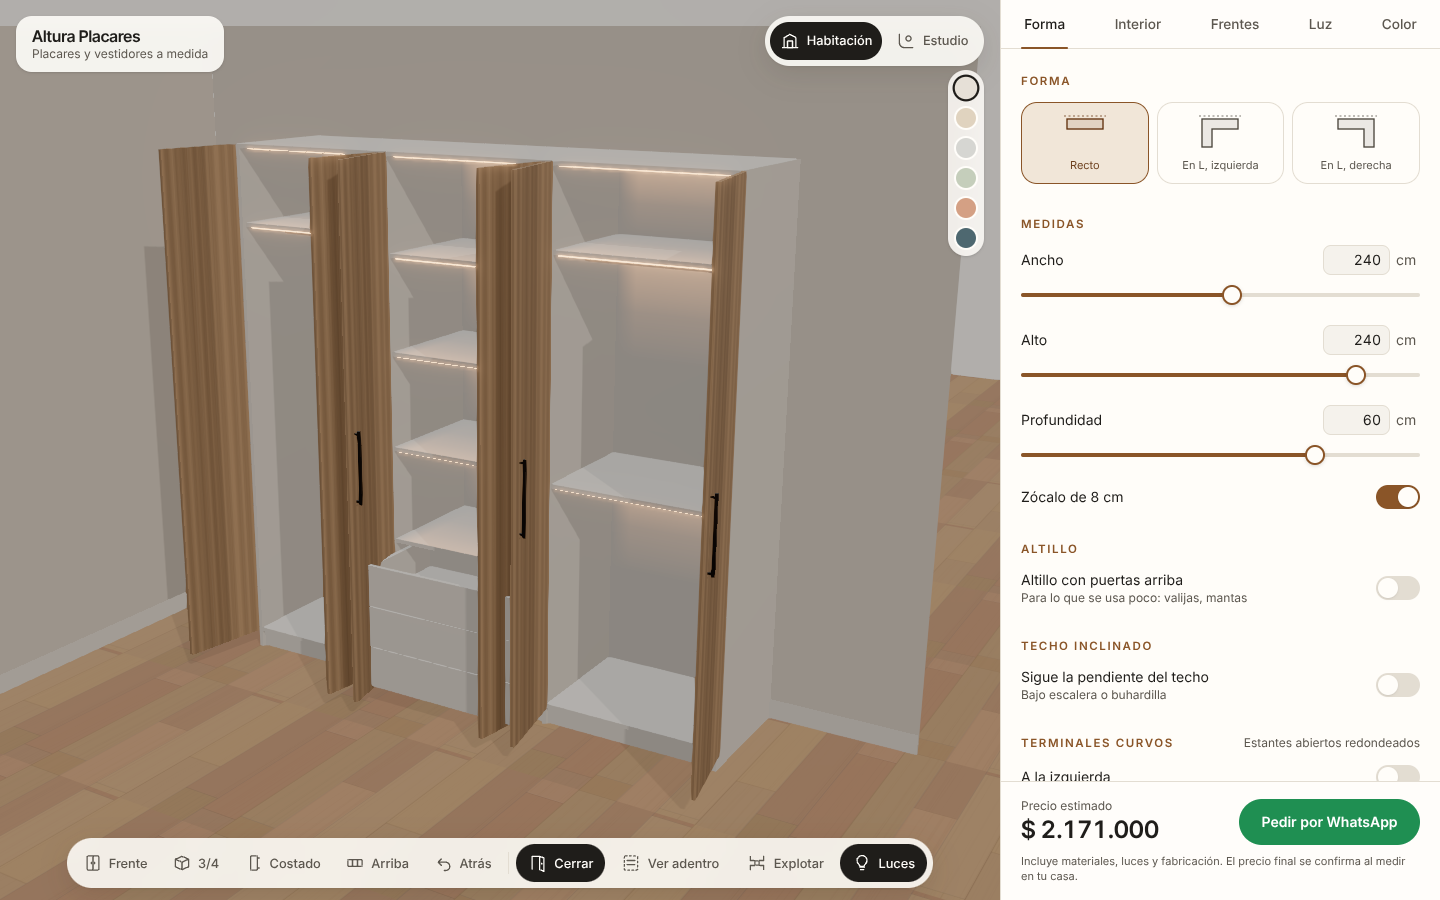
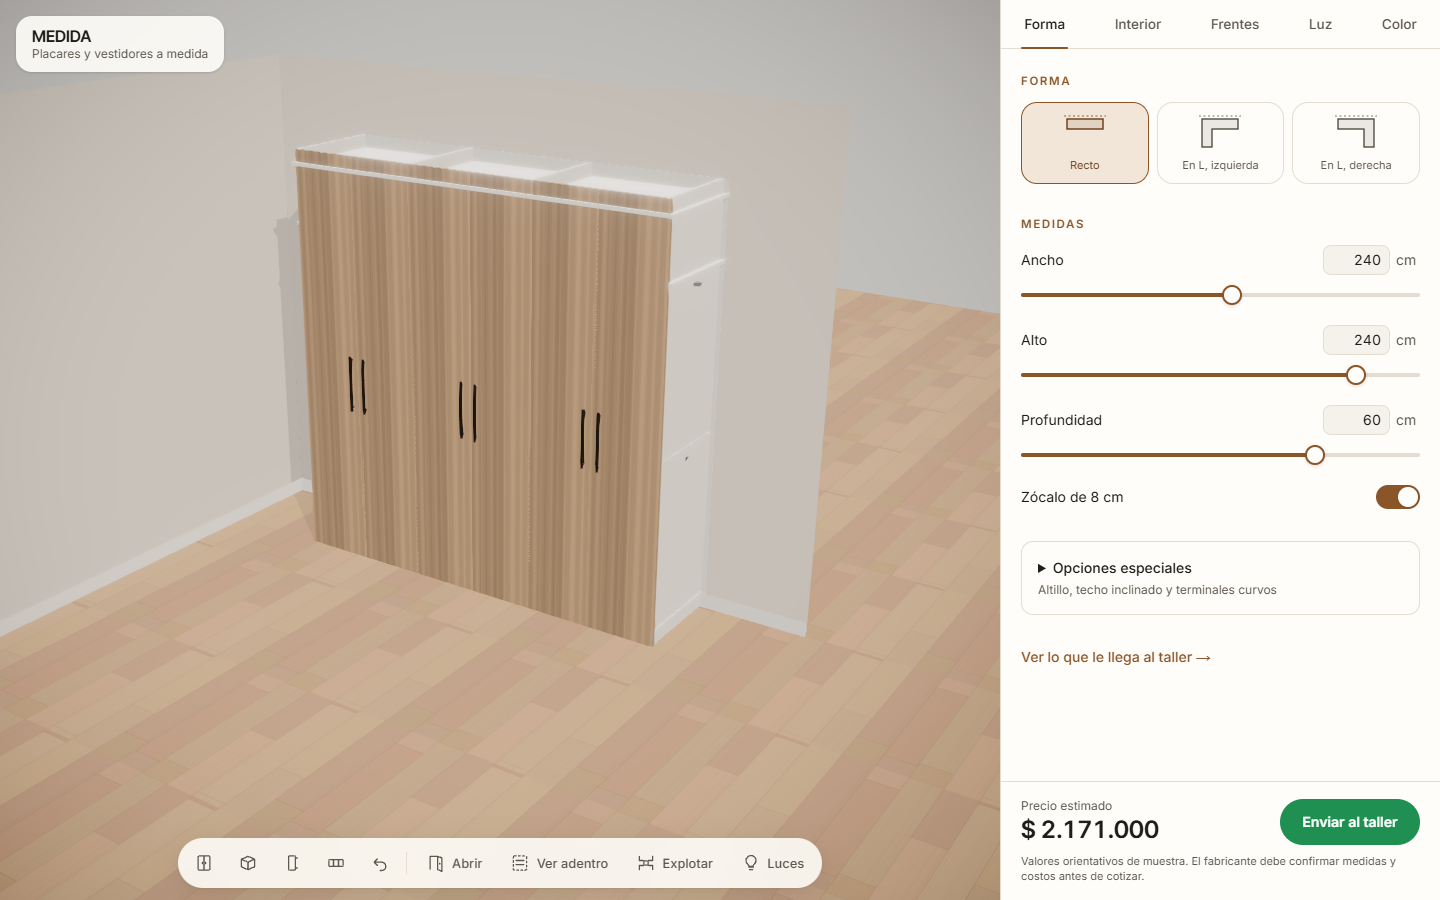
Validar MEDIDA y presentar configurador sin marca de demo

diff --git a/src/app/page.tsx b/src/app/page.tsx
@@ -16,7 +16,7 @@ const steps = [
   },
   {
     title: "Ve el precio al instante",
-    body: "El precio sale de tus placas, tus herrajes y tu margen. Nada de cotizar a ojo ni de esperar dos días.",
+    body: "El precio se calcula con los costos de placas, herrajes, mano de obra y margen configurados para tu taller.",
   },
   {
     title: "Te llega el pedido",
@@ -36,7 +36,7 @@ const workshop = [
     title: "Dibujo de cada pieza",
     body: "Agrupadas como se fabrican (10 × estante con luz LED) y dibujadas con medidas, cantos, canales para el perfil LED, cazoletas y agujeros de tirador.",
   },
-  { title: "PDF por WhatsApp", body: "El cliente lo manda desde el celular y te llega como documento, listo para imprimir. También en Excel para la seccionadora." },
+  { title: "PDF y planilla", body: "El pedido se puede descargar en PDF y compartir desde un celular compatible. El despiece también se exporta en CSV para revisar en una planilla." },
   { title: "Plano de corte", body: "Cómo acomodar las piezas en cada placa, respetando la veta, y cuántas placas comprar." },
   { title: "Herrajes y luces", body: "Bisagras según el alto de cada puerta, correderas, barrales, tiras LED, fuentes y sensores, contados uno por uno." },
   { title: "Costo y margen", body: "Cuánto te cuesta ese placard y cuánto te queda, antes de confirmar nada." },
@@ -58,7 +58,7 @@ export default function Home() {
         <span className="font-display text-xl font-semibold tracking-tight">{product.name}</span>
         <div className="flex items-center gap-2">
           <Link href="/demo/" className="btn btn-ghost px-4 py-2 text-sm">
-            Probar la demo
+            Abrir configurador
           </Link>
         </div>
       </nav>
@@ -72,7 +72,7 @@ export default function Home() {
           <p className="mt-5 max-w-xl text-lg leading-relaxed text-ink-2">{product.pitch}</p>
           <div className="mt-8 flex flex-wrap gap-3">
             <Link href="/demo/" className="btn btn-primary">
-              Probar la demo
+              Abrir configurador
             </Link>
             <a href={contact} target="_blank" rel="noopener noreferrer" className="btn btn-ghost">
               Quiero verlo con mi taller

diff --git a/src/lib/model.ts b/src/lib/model.ts
@@ -150,7 +150,7 @@ const RAW_DEFAULT: WardrobeConfig = {
 
 const T = () => catalog.board.thickness;
 const clamp = (v: number, lo: number, hi: number) => Math.min(hi, Math.max(lo, v));
-const isLayout = (v: unknown): v is Layout => typeof v === "string" && v in LAYOUT_LABELS;
+const isLayout = (v: unknown): v is Layout => typeof v === "string" && Object.hasOwn(LAYOUT_LABELS, v);
 
 /**
  * Largo útil de un tramo. El lateral de un placard en L arranca delante del
@@ -311,7 +311,9 @@ function normalizeModule(m: Partial<ModuleConfig> | undefined, fallback: ModuleC
     layout: isLayout(src.layout) ? src.layout : "shelves",
     shelves: Math.round(clamp(Number(src.shelves) || 0, LIMITS.shelves.min, LIMITS.shelves.max)),
     drawers: Math.round(clamp(Number(src.drawers) || 0, LIMITS.drawers.min, LIMITS.drawers.max)),
-    width: Math.max(0, Number(src.width) || 0),
+    // Un exponente válido en JSON puede desbordar a Infinity. Acotar antes
+    // del reparto evita NaN y sumas de pesos que desborden.
+    width: Number.isFinite(Number(src.width)) ? clamp(Number(src.width), 0, LIMITS.moduleInner.max) : 0,
     ledShelves: Boolean(src.ledShelves),
     ledSides: Boolean(src.ledSides),
   };
@@ -386,7 +388,7 @@ export function normalize(input: Partial<WardrobeConfig> & { width?: number; mod
   const doors: DoorType = wantsSliding ? (slidingRuns ? "sliding" : "hinged") : doorsIn === "sliding" ? "hinged" : doorsIn;
   const runs = slidingRuns ?? buildRuns(doors)!;
 
-  const styleIn: DoorStyle = input.doorStyle && input.doorStyle in DOOR_STYLE_LABELS ? input.doorStyle : base.doorStyle;
+  const styleIn: DoorStyle = input.doorStyle && Object.hasOwn(DOOR_STYLE_LABELS, input.doorStyle) ? input.doorStyle : base.doorStyle;
   // el marco de aluminio es rectangular: con pendiente, la puerta va lisa
   const doorStyle: DoorStyle = slopeEnabled && styleIn === "glass" ? "flat" : styleIn;
   const handle: HandleType = input.handle === "knob" || input.handle === "none" ? input.handle : input.handle === "bar" ? "bar" : base.handle;

diff --git a/src/components/Configurator.tsx b/src/components/Configurator.tsx
@@ -339,6 +339,12 @@ export default function Configurator() {
                 <Toggle label="Zócalo de 8 cm" checked={config.plinth} onChange={(plinth) => update({ plinth })} />
               </Section>
 
+              <details className="rounded-xl border border-line p-4">
+                <summary className="cursor-pointer text-sm font-medium text-ink">
+                  Opciones especiales
+                  <span className="mt-1 block text-xs font-normal text-ink-2">Altillo, techo inclinado y terminales curvos</span>
+                </summary>
+                <div className="mt-5 space-y-8">
               <Section title="Altillo">
                 <Toggle
                   label="Altillo con puertas arriba"
@@ -391,6 +397,8 @@ export default function Configurator() {
                 <Toggle label="A la izquierda" checked={config.curved.left} onChange={(left) => update({ curved: { ...config.curved, left } })} />
                 <Toggle label="A la derecha" checked={config.curved.right} onChange={(right) => update({ curved: { ...config.curved, right } })} />
               </Section>
+                </div>
+              </details>
             </>
           )}
 
@@ -735,7 +743,11 @@ export default function Configurator() {
               Enviar al taller
             </button>
           </div>
-          <p className="mt-2 text-[11px] leading-snug text-ink-2">Incluye materiales, luces y fabricación. El precio final se confirma al medir en tu casa.</p>
+          <p className="mt-2 text-[11px] leading-snug text-ink-2">
+            {catalog.brand.samplePricing
+              ? "Valores orientativos de muestra. El fabricante debe confirmar medidas y costos antes de cotizar."
+              : "Incluye materiales, luces y fabricación. El precio final se confirma al medir en tu casa."}
+          </p>
         </div>
       </aside>
 

diff --git a/src/lib/quote.test.ts b/src/lib/quote.test.ts
@@ -28,6 +28,28 @@ const variants: Partial<WardrobeConfig>[] = [
 ];
 const configs = variants.map((v) => normalize({ ...DEFAULT_CONFIG, ...v }));
 
+test("un link con anchos desbordados mantiene medidas y piezas finitas", () => {
+  for (const value of ["1e999", "1e308"]) {
+    const raw = JSON.parse(`{"runs":[{"width":2400,"modules":[{"width":${value}},{"width":${value}},{"width":780}]}]}`);
+    const config = normalize(raw);
+    for (const mod of config.runs[0].modules) {
+      assert.ok(Number.isFinite(mod.width));
+      assert.ok(mod.width >= LIMITS.moduleInner.min && mod.width <= LIMITS.moduleInner.max);
+    }
+    const q = quote(config);
+    assert.ok(Number.isFinite(q.price) && q.price > 0);
+    assert.ok(q.rows.every((row) => Number.isFinite(row.length) && Number.isFinite(row.width)));
+  }
+});
+
+test("los links no aceptan propiedades heredadas como tipos de interior o frente", () => {
+  const raw = JSON.parse('{"doorStyle":"toString","modules":[{"layout":"constructor"},{"layout":"toString"},{"layout":"__proto__"}]}');
+  const config = normalize(raw);
+  assert.equal(config.doorStyle, DEFAULT_CONFIG.doorStyle);
+  assert.ok(config.runs[0].modules.every((mod) => mod.layout === "shelves"));
+  assert.ok(Number.isFinite(quote(config).price));
+});
+
 test("toda pieza de placa entra en una placa entera", () => {
   for (const config of configs) {
     for (const p of allParts(buildAssembly(config))) {

diff --git a/src/lib/catalog.ts b/src/lib/catalog.ts
@@ -5,9 +5,8 @@
  * y el cálculo de precio leen todo de acá, así que sumar un taller nuevo es
  * copiar este archivo y cambiar los valores.
  *
- * LOS PRECIOS SON DE EJEMPLO. La marca "Altura Placares" es inventada para la
- * demo: no corresponde a ningún fabricante real. Cada taller carga sus propios
- * costos antes de publicar.
+ * LOS PRECIOS SON DE EJEMPLO. Cada taller carga sus propios costos antes de
+ * usar el cálculo en una cotización real.
  */
 
 export type Material = {
@@ -25,12 +24,14 @@ export type HandleType = "bar" | "knob" | "none";
 
 export const catalog = {
   brand: {
-    name: "Altura Placares",
+    name: "MEDIDA",
     tagline: "Placares y vestidores a medida",
     city: "Pilar, Buenos Aires",
     /** wa.me sin + ni espacios. En la demo apunta al número de Matías. */
     whatsapp: "5492324582614",
-    demo: true,
+    demo: false,
+    /** independiente de la marca de agua: los costos aún son orientativos */
+    samplePricing: true,
   },
 
   /** placa de melamina estándar y cómo la corta la seccionadora */

diff --git a/src/lib/orderPdf.ts b/src/lib/orderPdf.ts
@@ -146,7 +146,7 @@ function footer(ctx: Ctx, page: number, total: number) {
   ctx.fillRect(M, PAGE_H - 70, PAGE_W - 2 * M, 1);
   text(ctx, `${catalog.brand.name} · Orden de producción`, M, PAGE_H - 40, 16, { color: "#5c574f" });
   text(ctx, `${page} / ${total}`, PAGE_W - M, PAGE_H - 40, 16, { color: "#5c574f", align: "right" });
-  if (catalog.brand.demo) text(ctx, "Demo: precios de ejemplo", PAGE_W / 2, PAGE_H - 40, 16, { color: "#8a5528", align: "center" });
+  if (catalog.brand.samplePricing) text(ctx, "Precios orientativos de muestra", PAGE_W / 2, PAGE_H - 40, 16, { color: "#8a5528", align: "center" });
 }
 
 function specLines(config: WardrobeConfig): string[] {

diff --git a/src/lib/share.ts b/src/lib/share.ts
@@ -84,6 +84,7 @@ export function orderMessage(config: WardrobeConfig, price: string, link: string
     ...extras,
     `Cuerpo: ${materialById(config.bodyMaterial).name}. Frentes: ${materialById(config.doorMaterial).name}`,
     `Precio estimado: ${price}`,
+    ...(catalog.brand.samplePricing ? ["Valores orientativos de muestra; el fabricante debe validar medidas y costos."] : []),
     ...(extra.rows?.length ? ["", "Piezas:", ...pieceLines(extra.rows)] : []),
     "",
     `Mi diseño: ${link}`,

diff --git a/src/components/Workshop.tsx b/src/components/Workshop.tsx
@@ -92,9 +92,9 @@ export default function Workshop() {
         </div>
       </header>
 
-      {catalog.brand.demo && (
+      {catalog.brand.samplePricing && (
         <p className="no-print rounded-xl bg-accent-soft px-4 py-3 text-sm text-accent-strong">
-          Demo: los precios son de ejemplo. Con un taller real, los costos salen de su lista de precios.
+          Precios orientativos de muestra. Cada fabricante debe cargar y validar su propia lista de costos.
         </p>
       )}
 

diff --git a/src/lib/product.ts b/src/lib/product.ts
@@ -12,8 +12,8 @@ export const product = {
   whatsapp: "5492324582614",
   email: "matiascolimodio@gmail.com",
   /** marca de agua de la demo: va en el 3D, en la vista del taller y en el PDF */
-  watermark: "MEDIDA · DEMO",
-  watermarkNote: "Demo de Medida · matiascolimodio@gmail.com",
+  watermark: "MEDIDA",
+  watermarkNote: "Medida · matiascolimodio@gmail.com",
 } as const;
 
 export function productWhatsapp(message: string) {

diff --git a/next.config.ts b/next.config.ts
@@ -7,6 +7,8 @@ import type { NextConfig } from "next";
  */
 const nextConfig: NextConfig = {
   output: "export",
+  // Evita tomar un lockfile de otra carpeta como raíz del proyecto.
+  outputFileTracingRoot: __dirname,
   reactStrictMode: true,
   devIndicators: false,
   // cada ruta como carpeta con index.html: no depende de reescrituras del hosting

diff --git a/README.md b/README.md
@@ -6,6 +6,28 @@ cada placa, los herrajes, las luces y la cuenta de costo y margen.
 
 "Medida" es un nombre de trabajo: se cambia en `src/lib/product.ts`.
 
+## Estado verificado — 30/10/2026
+
+La interfaz lleva la marca MEDIDA, sin rótulo ni marca de agua DEMO, por pedido
+del usuario. Los precios siguen señalados como valores orientativos de muestra
+(`catalog.brand.samplePricing`), independientemente de la marca de agua.
+Las opciones de altillo, techo inclinado y terminales curvos se agrupan en
+«Opciones especiales» para simplificar el primer recorrido.
+
+Se verificaron 18 pruebas del modelo y despiece, tipos, lint y export estático.
+En navegador se probó a 390 y 1440 px: cambio de medidas, conservación en el
+enlace, vista del taller y descargas PDF/CSV, sin desborde horizontal.
+
+El CSV sirve para una planilla; el formato de una seccionadora concreta requiere
+adaptación. No hay login ni servidor: el catálogo se descarga al navegador y la
+vista del taller puede abrirse con su enlace. No cargar costos confidenciales
+sin resolver el acceso y la arquitectura antes.
+
+GitHub tenía verificaciones exitosas, pero la publicación anterior se omitió
+por falta de los secretos de Cloudflare. Una verificación exitosa no demuestra
+que exista una URL publicada. Las mejoras se entregan en una rama para revisión;
+publicar exige autorización del usuario.
+
 ## Qué se puede armar
 
 - **Formas:** recto, en L con el lateral a la izquierda o a la derecha, altillo
@@ -46,7 +68,7 @@ mismo y se puede bajar en PDF o en CSV.
 | Ruta | Qué es |
 | --- | --- |
 | `/` | Página para venderle el producto a los talleres |
-| `/demo/` | El configurador, con una marca inventada (Altura Placares) |
+| `/demo/` | El configurador MEDIDA, con costos orientativos de muestra |
 | `/demo/taller/` | Lo que recibe el taller: despiece, placas, herrajes, costos |
 
 La configuración viaja entera en el link (`?c=...`), así que el pedido que llega
